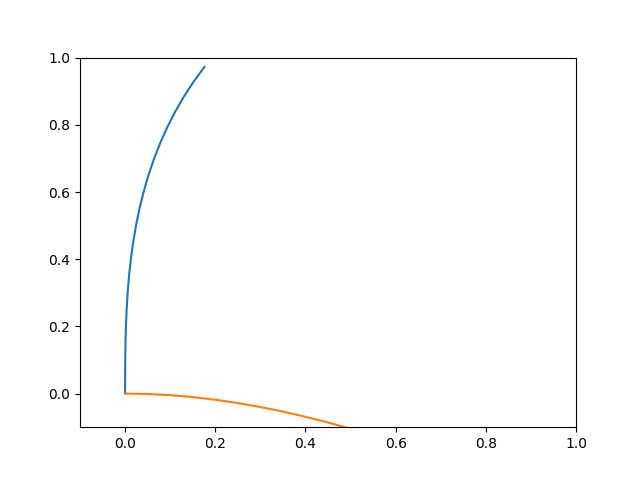
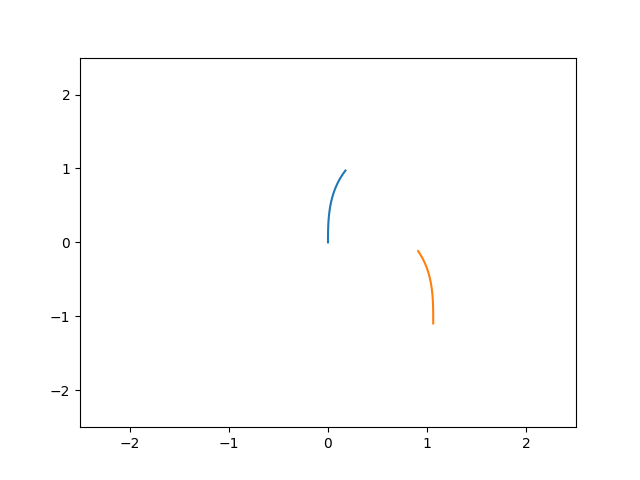
impllement relocatePath

diff --git a/BackmanAlgorithm/SmoothPlanner.py b/BackmanAlgorithm/SmoothPlanner.py
@@ -1,4 +1,5 @@
 import numpy as np
+from numpy import sin, cos, tan
 from ODESolver import RungeKutta4
 from StateSpaces import SmoothPathState
 from scipy.integrate import odeint
@@ -95,7 +96,7 @@ class SmoothPathPlanner:
         k = u[1]
         theta = x[2]
 
-        return [v*np.cos(theta), v*np.sin(theta), k]
+        return [v*cos(theta), v*sin(theta), k]
 
     def integrateTrajectory(self, kTrajectory, vTrajectory, xo, dT):
 
@@ -119,22 +120,43 @@ class SmoothPathPlanner:
             for i in range(1,len(t)):
 
                 resultVal = odeint(self.vehicleModel, x[i-1], [t[i-1],t[i]], args=([u[i][0], u[i][1]],)) #integrate using LSODA
+                
                 x[i] = resultVal[1]
 
             return x
 
-    def makeTrajectoriesEqualLength(self, kTraj, vTraj, fromEnd = True):
+    def makeTrajectoriesEqualLength(self, kTraj, vTraj, fromStart = False):
 
-        if (len(kTraj) < len(vTraj)) and fromEnd: #cut from end of vTraj
+        if (len(kTraj) < len(vTraj)) and not fromStart: #cut from end of vTraj
             vTraj = vTraj[0:len(kTraj)]
-        elif (len(kTraj) < len(vTraj)) and not fromEnd: #cut from end of vTraj
+        elif (len(kTraj) < len(vTraj)) and fromStart: #cut from end of vTraj
             vTraj = vTraj[len(vTraj)- len(kTraj):len(vTraj)]
-        elif (len(kTraj) > len(vTraj)) and fromEnd:
+        elif (len(kTraj) > len(vTraj)) and not fromStart:
             vTraj = np.append(vTraj, np.array([vTraj[-1] for i in range((len(kTraj)- len(vTraj)))]), axis = 0)
-        elif (len(kTraj) > len(vTraj)) and not fromEnd:
+        elif (len(kTraj) > len(vTraj)) and fromStart:
             vTraj = np.append(np.array([vTraj[0] for i in range(len(kTraj)- len(vTraj))]),vTraj, axis = 0)
 
         return {'kTraj': kTraj, 'vTraj':vTraj}
+
+    def relocatePath(self, path, point, relocateStartPoint = True):
+        """Use Homogenous Transform to relocate a path to a point
+            TODO: optimize function and use Homogenous TF efficiently if necessary
+        """
+
+        if not (len(path[1]) == len(point)):
+            raise ValueError("Path and Point are not of suitable dimension")
+        
+        index = 0 if relocateStartPoint else -1
+        pathPoint = path[index]
+        tf = point - pathPoint
+        H = np.array([ [cos(tf[2]), -sin(tf[2]), 0], [sin(tf[2]), cos(tf[2]), 0], [0, 0, 1] ])
+        pathHomogenous = np.array([[i[0]-pathPoint[0], i[1]-pathPoint[1], 1] for i in path]).T 
+        pathTF = np.matmul(H, pathHomogenous).T * [1, 1, 0]
+
+        pathTF = (pathTF) + [point[0] - pathTF[-1][0], point[1] - pathTF[-1][1],  0]
+        
+        return pathTF
+
 
     def plan(self):
 
@@ -148,7 +170,7 @@ class SmoothPathPlanner:
             v_S1 = self.generateSpeedTrajectory(
                 self.initialState.v, self.headlandSpeed, dT, 0)
             
-            trajectories = self.makeTrajectoriesEqualLength(K_S1, v_S1, True)
+            trajectories = self.makeTrajectoriesEqualLength(K_S1, v_S1, False)
             
             xo = [self.initialState.x, self.initialState.y, self.initialState.theta]
             S1 = self.integrateTrajectory(trajectories['kTraj'], trajectories['vTraj'], xo, dT)
@@ -156,12 +178,14 @@ class SmoothPathPlanner:
             #generate last connecting spiral
             K_S4 = self.generateCurvatureTrajectory(self.k_C3, self.k_C4, dT, 0)
             v_S4 = self.generateSpeedTrajectory(self.headlandSpeed, self.finalState.v, dT, 0)
-            #print("K_S4: ", K_S4)
-            #print("v_S4: ", v_S4)
-            trajectories = self.makeTrajectoriesEqualLength(K_S4, v_S4, False)
+
+            trajectories = self.makeTrajectoriesEqualLength(K_S4, v_S4, True)
 
             xo = [0, 0, 0]
             S4 = self.integrateTrajectory(trajectories['kTraj'], trajectories['vTraj'], xo, dT)
+
+            relocatePoint = [self.finalState.x, self.finalState.y, self.finalState.theta]
+            S4 = self.relocatePath(S4, relocatePoint, False)
 
             path_is_not_feasible = False
 
@@ -176,9 +200,10 @@ class SmoothPathPlanner:
         print("k final:", (S1[-2][2]-S1[-1][2])/dT)
 
         plt.plot([i[0] for i in S4], [i[1] for i in S4])
-        plt.xlim([-0.1,1])
-        plt.ylim([-0.1,1])
-        plt.savefig("trajectory2.png")
+        #plt.plot([i*0.01 for i in range(0,200)], [0 for i in range(0,200)])
+        plt.xlim([-2.5,2.5])
+        plt.ylim([-2.5,2.5])
+        plt.savefig("trajectory3.png")
 
         print("theta final:", S4[-1][2])
         print("k final:", (S4[-2][2]-S4[-1][2])/dT)
